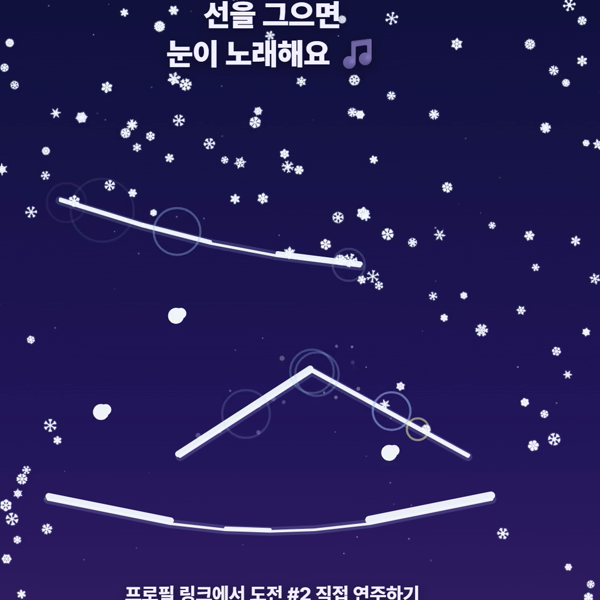
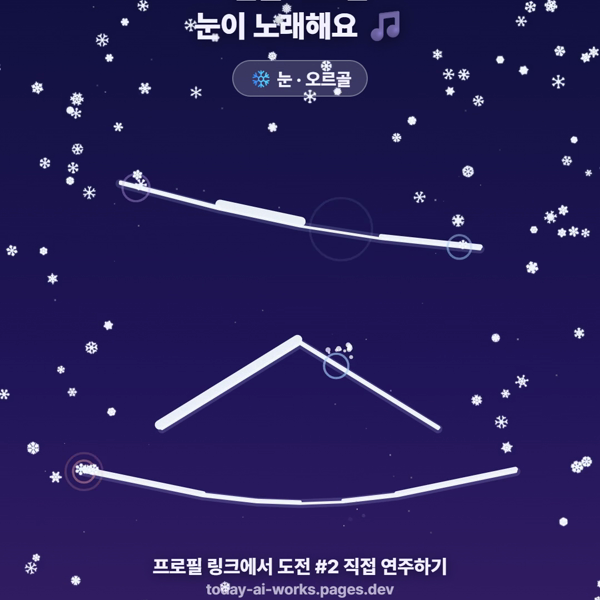
눈송이 오르골 영상 화면: 글자 정가운데, 악기 이름 표시
- 영상용 글자를 화면 정가운데로 (전에는 안전 영역 기준이라 왼쪽으로 치우침)
- 영상에서 악기를 바꾸면 "❄ 눈 · 오르골"처럼 이름이 뜨도록 (__frame.setTheme)
- 썸네일 새로

diff --git a/games/snow-music-box/index.html b/games/snow-music-box/index.html
@@ -217,7 +217,7 @@
     dialog a { color: var(--accent); }
     dialog .close { margin-top: 10px; }
 
-    /* 영상 녹화용 (?frame): 릴스 안전 영역 안에 글자만 */
+    /* 영상 녹화용 (?frame): 릴스 안전 영역 안에 글자만. 글자는 화면 정가운데 (오른쪽 버튼은 아래쪽에만 있어 겹치지 않음) */
     .frame-hook, .frame-cta { display: none; }
 
     body.frame .top, body.frame .bar, body.frame .start, body.frame .badge, body.frame #toast { display: none !important; }
@@ -228,7 +228,7 @@
       position: fixed;
       top: 125px;
       left: 30px;
-      width: 430px;
+      right: 30px;
       text-align: center;
       pointer-events: none;
     }
@@ -243,6 +243,21 @@
       font-size: 0.95rem;
     }
 
+    .frame-hook .theme-pill {
+      display: inline-block;
+      margin-top: 12px;
+      padding: 5px 14px;
+      border-radius: 999px;
+      background: rgba(255, 255, 255, 0.16);
+      border: 1px solid rgba(255, 255, 255, 0.3);
+      font-size: 1rem;
+      font-weight: 800;
+    }
+
+    .frame-hook .theme-pill:empty { display: none; }
+    .frame-hook .theme-pill.pop { animation: pillPop 0.35s ease-out; }
+    @keyframes pillPop { from { transform: scale(1.35); opacity: 0.4; } to { transform: scale(1); opacity: 1; } }
+
     .frame-hook .hook { margin-top: 10px; font-size: 1.7rem; font-weight: 900; line-height: 1.3; text-shadow: 0 2px 14px rgba(0, 0, 0, 0.45); }
 
     body.frame .frame-cta {
@@ -250,7 +265,7 @@
       position: fixed;
       top: 690px;
       left: 30px;
-      width: 430px;
+      right: 30px;
       text-align: center;
       pointer-events: none;
     }
@@ -296,7 +311,7 @@
     </div>
   </div>
 
-  <div class="frame-hook"><span class="tag" id="frame-tag">도전</span><div class="hook" id="frame-hook-text">선을 그으면<br>눈이 노래해요 🎵</div></div>
+  <div class="frame-hook"><span class="tag" id="frame-tag">도전</span><div class="hook" id="frame-hook-text">선을 그으면<br>눈이 노래해요 🎵</div><div class="theme-pill" id="frame-theme"></div></div>
   <div class="frame-cta"><div class="cta" id="frame-cta-text">프로필 링크에서 직접 연주해 보기</div><div class="url">today-ai-works.pages.dev</div></div>
 
   <div id="toast" role="status" aria-live="polite"></div>
@@ -1164,6 +1179,15 @@
           if (S.drawing && S.drawing.pts.length >= 2) addStroke(simplify(S.drawing.pts, 1.2));
           S.drawing = null;
           S.pen = null;
+        },
+        // 악기 바꾸기 (선은 그대로, 하늘 · 내리는 것 · 소리만 바뀜)
+        setTheme(name, label) {
+          setTheme(name);
+          const pill = $('frame-theme');
+          pill.textContent = label || `${THEMES[name].icon} ${THEMES[name].label}`;
+          pill.classList.remove('pop');
+          void pill.offsetWidth;
+          pill.classList.add('pop');
         },
         notes: sound.notes,
       };
